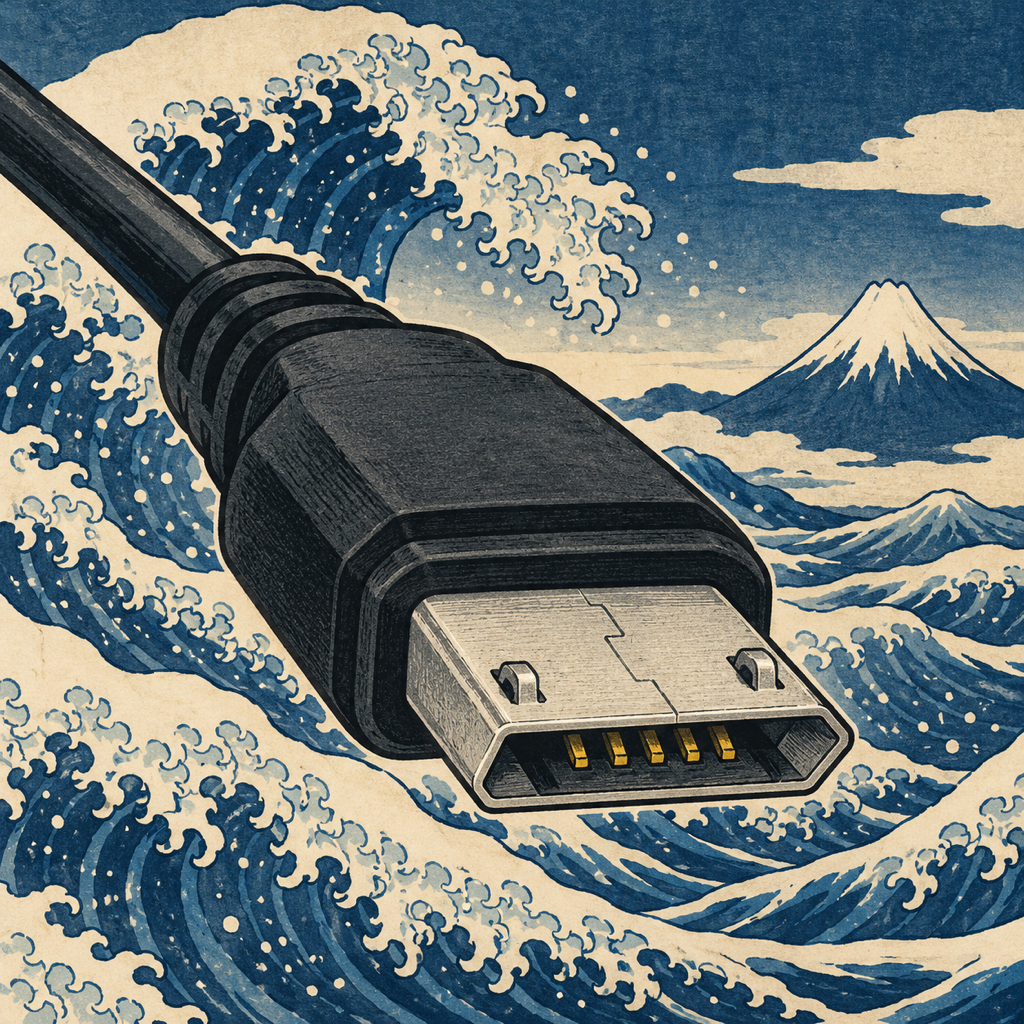
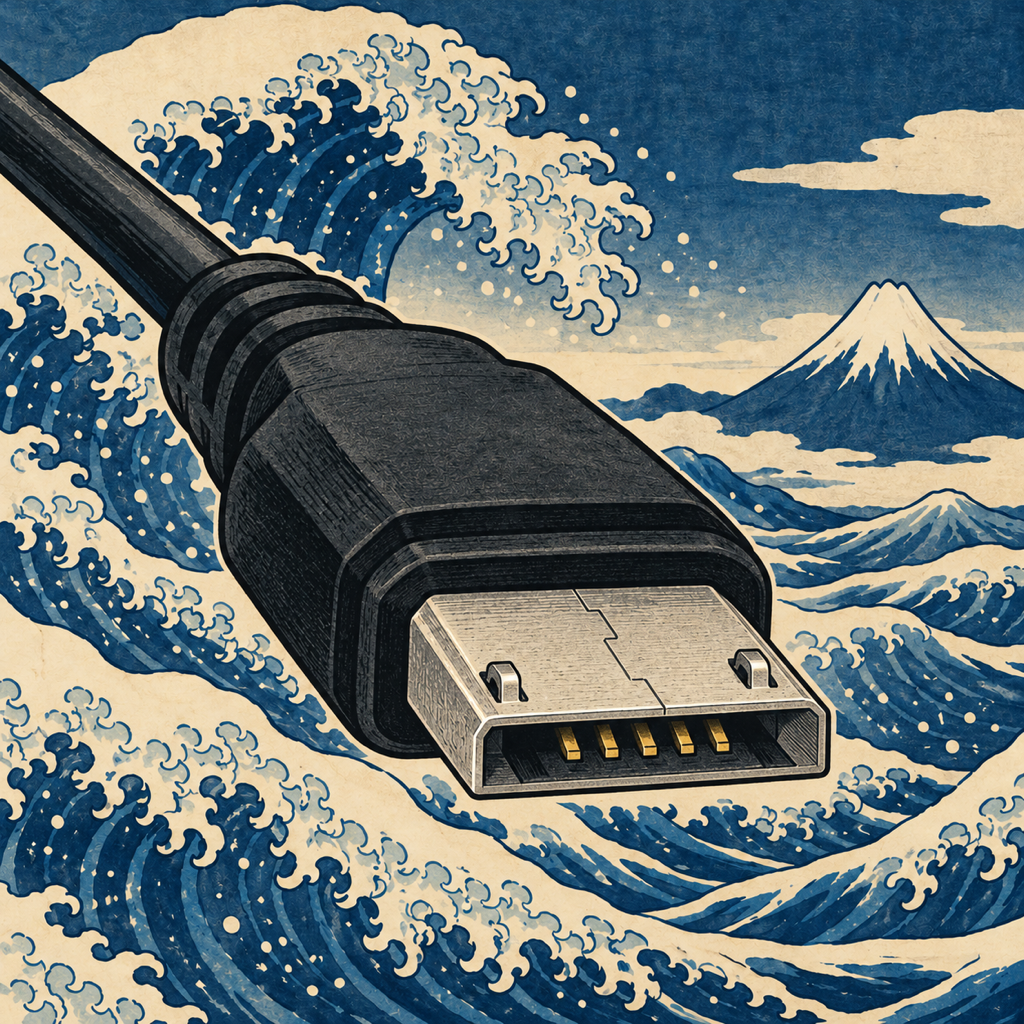
Correct Micro-B shell edges from reference images

diff --git a/docs/visual-checks.md b/docs/visual-checks.md
@@ -76,3 +76,7 @@ Final PNGs are 1024 × 1024 without visible text or logos. MIDI remains unchange
 ## USB-B proportions: latest correction
 
 Supersedes the prior USB-B bridge revision, which the instructor rejected. The latest supplied photo is the technical reference. The image now shows a slimmer metal sleeve, photo-matched opening proportions, white insulating contour and two visible long contact strips. No horizontal shelf across the middle. Visible contacts are intentional; not all four are forced into view. Art style preserved. Instructor review pending.
+
+## Micro-B edge correction
+
+26-usb-micro-b.png revised using three instructor-supplied references. Upper-corner chamfers and short side walls replace the previous top-and-bottom bevels; bottom corners nearly square. Five contacts and two retention hooks visible. Woodblock composition preserved. Instructor review pending.

diff --git a/images/CREDITS.md b/images/CREDITS.md
@@ -32,7 +32,7 @@ listed in [`ROSTER.md`](ROSTER.md); none is a reproduction of the original artwo
 | 23-usb-a.png | OpenAI built-in image generation | 2026-10-26 | No; visual feature check only |
 
 | 24-usb-b-2-0.png | OpenAI built-in image generation; photo-based correction | 2026-10-26 | Rebuilt against latest instructor-supplied photo for proportions and visible contacts; instructor review pending |
-| 26-usb-micro-b.png | OpenAI built-in image generation | 2026-10-26 | No; visual feature check only |
+| 26-usb-micro-b.png | OpenAI built-in image generation; shell-edge correction | 2026-10-26 | Compared visually with three instructor-supplied references; instructor review pending |
 | 28-usb-c.png | OpenAI built-in image generation | 2026-10-26 | No; visual feature check only |
 | 33-hdmi.png | OpenAI built-in image generation | 2026-10-26 | No; visual feature check only |
 
